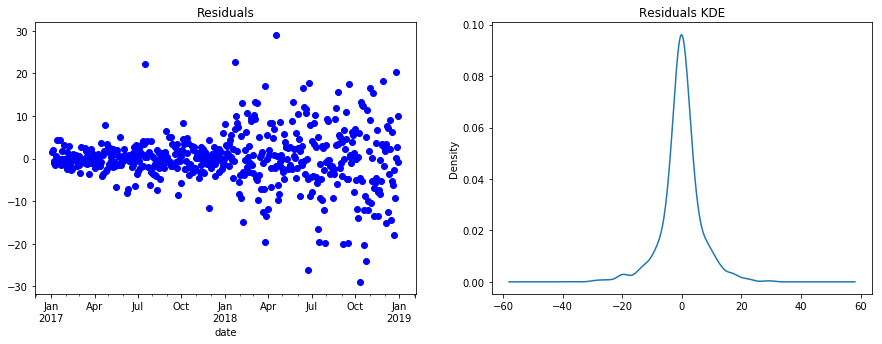
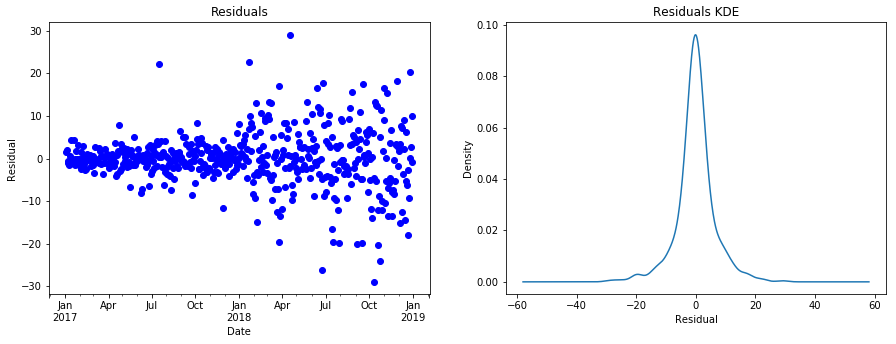
Add axis labels to residuals plots.

diff --git a/stock_analysis/stock_modeler.py b/stock_analysis/stock_modeler.py
@@ -169,6 +169,9 @@ class StockModeler:
             model_fitted.resid, name='residuals'
         )
         residuals.plot(style='bo', ax=axes[0], title='Residuals')
+        axes[0].set_xlabel('Date')
+        axes[0].set_ylabel('Residual')
         residuals.plot(kind='kde', ax=axes[1], title='Residuals KDE')
+        axes[1].set_xlabel('Residual')
         plt.close()
         return fig
